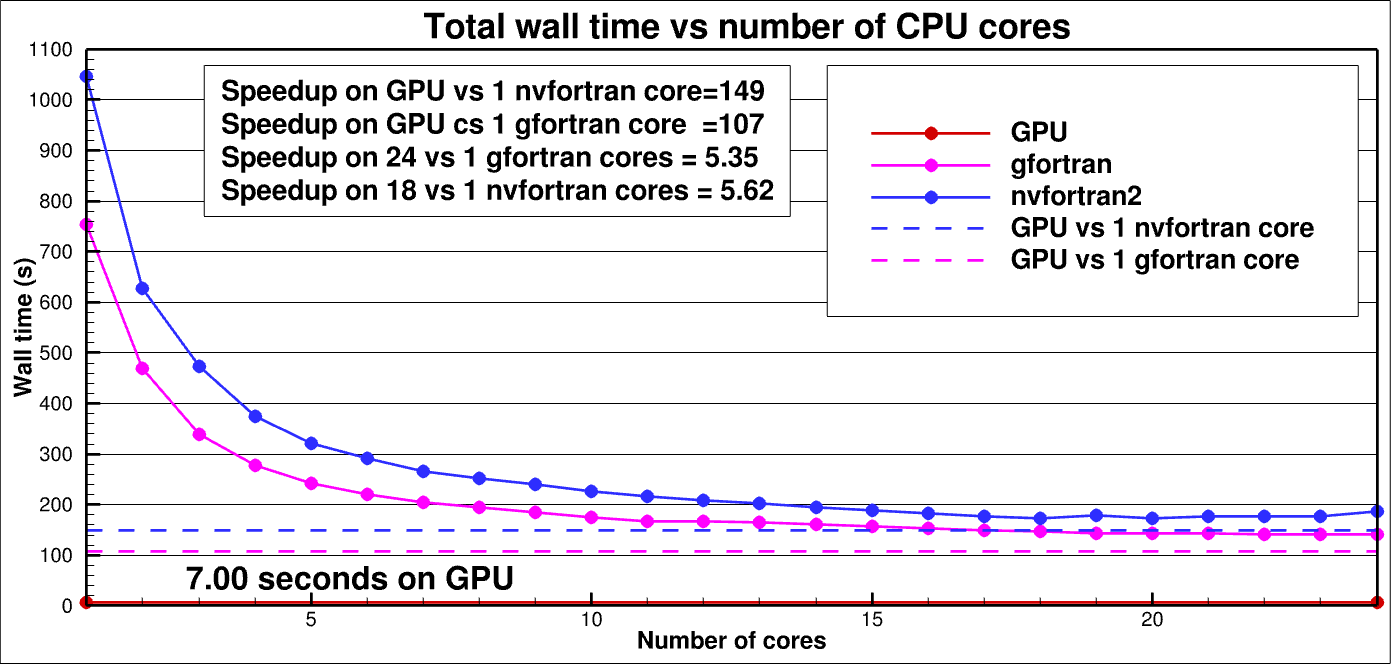
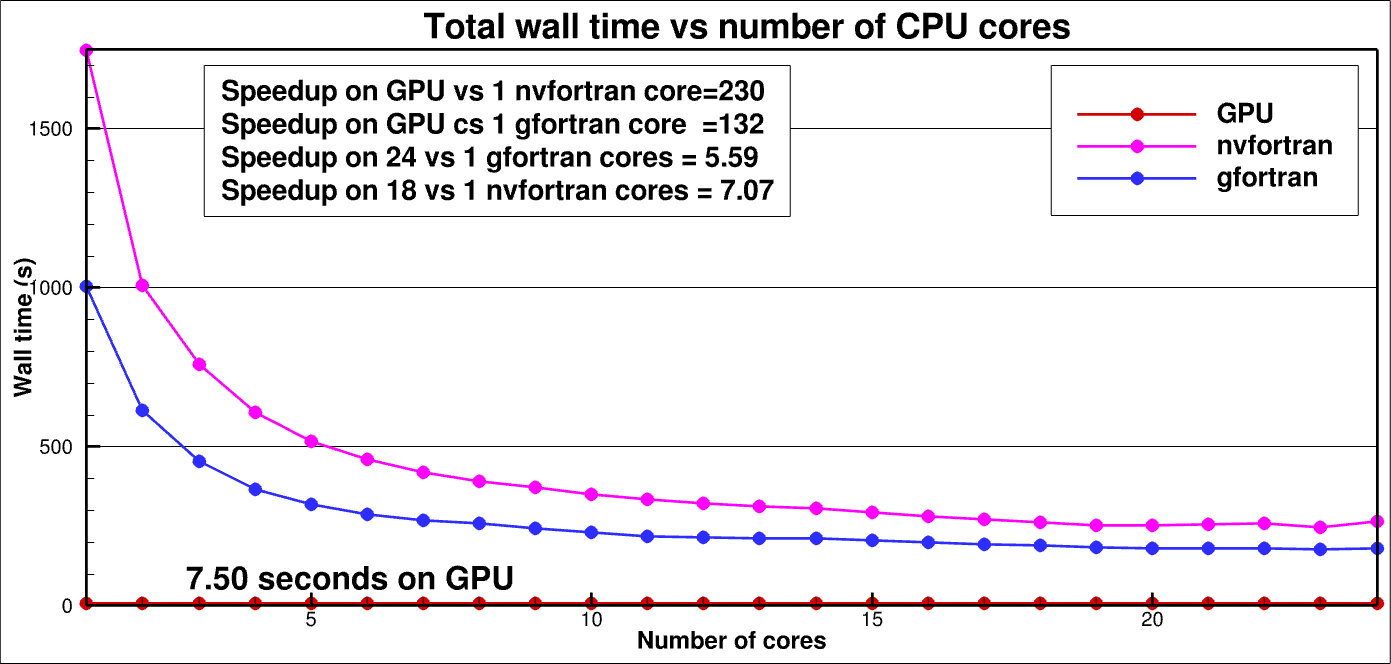
updated README

diff --git a/README.md b/README.md
@@ -2,16 +2,15 @@
 This repository contains a 3D implementation of a Lattice-Boltzmann model on a D3Q19 or D3Q27 lattice for high Reynolds number flow.
 
 ## Relese notes:
-**The latest pushes have been major upgrades. Speedup is now around 92 on GPU relative a single CPU core.**
+**The latest pushes have been major upgrades. Speedup is now around 100 on GPU relative a single CPU core.**
   - The code uses pointers to switch beteen f1 and f2 every second timestep. This allows for a significant simplification
     for the implementation of boundary conditions and reduces the load on the GPU for the postcoll routine.
   - postcoll now replaces fequil2, regularization, vreman and collisions, which are all done in one common kernel.
   - The actuatorline model was a mess, and I have now cleaned it up and tested it again.
-  - I have changed the format of the infile.in somewhat. Also, if there is no infile.in present, Boltzmann will generate one for you.
-  - I have developed a relatively robust test environment. If you activate ltesting in infile.in the code will dump the whole f in a file at the end of the
-    simulation e.g., testing000200.uf if you run 200 time-steps. All subsequent 200 time-steps runs will then compute the difference between the latest
-    simulations and the reference testing000200.uf file. Please use this approach while modifying code to reduce the risk of introducing bugs.  A tolerance of
-    (RMSE=1.0E-07 and MAXERR=1.0E-06) are acceptable.
+  - I have changed the format of the infile.in. Also, if there is no infile.in present, Boltzmann will generate one for you.
+  - I have developed a relatively robust test environment. If you activate ltesting in infile.in the code will dump the whole distribution function 
+    f in a file at the end of the simulation e.g., testing000200.uf if you run 200 time-steps. All subsequent 200 time-steps runs will then compute the
+    difference between the latest simulations and the reference testing000200.uf file. A tolerance of (RMSE=0.1E-06 and MAXERR=0.1E-05) are acceptable.
 
 ## License
 
@@ -39,9 +38,10 @@ The code, NVIDIA's CUDA Fortran, runs on a single core, an OPEN-MP multicore, or
 
 The code runs in single precision as default but a flag copiles a double precision version.
 
-The collision operator is a single relaxation time third-order expansion with regularization similar to [Jacob et al (2018)](https://hal.science/hal-02114308) and
-[Feng et al, (2018)](https://doi.org/10.1029/2020MS002107), but excluding the hybrid regularization, which I have not yet needed. It is also possible to use it for
-viscous flow without regularization and turbulence closure, and using a second-order BGK expansion.
+The collision operator is a single relaxation time with relaxation to a third-order Hermite expansion of the Equilibrium distribution
+similar to the approach taken by [Jacob et al (2018)](https://hal.science/hal-02114308) and
+[Feng et al, (2018)](https://doi.org/10.1029/2020MS002107), but excluding the hybrid regularization using finite differences that I did not yet need.
+It is also possible to use the code for viscous flow without regularization and turbulence closure, and using a second-order BGK expansion.
 
 The turbulence closure scheme is the one described by [Vreman (2004)](https://doi.org/10.1063/1.1785131).
 
@@ -56,14 +56,16 @@ turbines at any location of the model domain.
 Inflow turbulence is mimicked or introduced at a section inside the inflow boundary at i=1 (typically at the slice i=10) by applying a smooth in space
 and time, pseudo-random force on the fluid.
 
-The forcing function for the inflow turbulence and the turbines is that of Kupershtokh (2009). For the turbine forcing, it is also possible to run with the forcing
-formulations of Guo et al (2002). However, when using regularization, we project the non-equilibrium distribution onto the third-order Hermite polynomials. The
-significant difference between the Guo scheme's equilibrium distribution computed on the forcing-updated velocities leads to a poor representation using Hermite
-polynomials, and we partly lose the effect of the forcing. Thus, in the Guo scheme with regularization, it is necessary to compute the regularization first on
-R(fneq)=R(f-feq(u)) and then recover f=feq(u)+R(fneq) before computing the updated forcing velocities u+du and the forcing distribution df. Next we compute
-feq(u+du) and fneq(u+du)= f-feq(u+du), which goes into the collision and vreman calls. Thus, the cost of Guo is therefore much higher as it requires two calls to
-fequil and an extra computation of f=feq +R(fneq) and extra computation of fneq= f-feq(u+du). It is possible to reduce the computational cost by updating only at
-the turbine locations, but for now, it is not worth the effort.
+The forcing function for the inflow turbulence and the turbines is that of Kupershtokh (2009).
+
+Previously, for the turbine forcing, it was also possible to run with the forcing formulations of Guo et al (2002). However, when using regularization, we
+project the non-equilibrium distribution onto the third-order Hermite polynomials. The significant difference between the Guo scheme's equilibrium
+distribution computed on the forcing-updated velocities leads to a poor representation using Hermite polynomials, and we partly lose the effect of the
+forcing.  Thus, in the Guo scheme with regularization, it is necessary to compute the regularization first on R(fneq)=R(f-feq(u)) and then recover
+f=feq(u)+R(fneq) before computing the updated forcing velocities u+du and the forcing distribution df. Next we must compute feq(u+du) and fneq(u+du)=
+f-feq(u+du), which goes into the collision and vreman calls. Thus, the cost of Guo is therefore much higher as it requires two calls to fequil and an extra
+computation of f=feq +R(fneq) and extra computation of fneq= f-feq(u+du). It is possible to reduce the computational cost by updating only at the turbine
+locations, but for now, it is not worth the effort.
 
 
 
@@ -94,10 +96,10 @@ git clone git@github.com:geirev/LBM.git
 
 ### 1b. Advanced installation
 
-Make a personal github account unless you already have one.
-Fork the LBM repository.
-Next clone the forked repositories and set upstream to the original repositories where
-you need to replace <userid> with your github userid
+   - Make a personal github account unless you already have one.
+   - Fork the LBM repository.
+   - Next clone the forked repositories where you need to replace <userid> with your github userid.
+   - Set upstream to the original repositories.
 
 ```bash
 git clone git@github.com:<userid>/LBM.git
@@ -105,7 +107,7 @@ pushd LBM
 git remote add upstream git://github.com:geirev/LBM
 popd
 ```
-or, if you have not set up git-ssh
+or, if you have not set up git-ssh (or see instructions below)
 ```bash
 git clone git@github.com:<userid>/LBM.git
 pushd LBM
@@ -120,9 +122,11 @@ If you are new to Git, read the section <a href="#git-instructions">Git instruct
 
 ```bash
 sudo apt-get -y update
-sudo apt-get -y install libfftw3-dev               # fft library used when sampling pseudo-random fields
+sudo apt-get -y install libfftw3-dev  # fft library used when sampling pseudo-random fields
+```
 
-# nvidia Cuda fortran compiler and utilities installation (get the latest version, nvhpc-25-7 is just for illustration).
+nvidia Cuda fortran compiler and utilities installation (get the latest version, nvhpc-25-7 is just for illustration).
+```bash
 curl https://developer.download.nvidia.com/hpc-sdk/ubuntu/DEB-GPG-KEY-NVIDIA-HPC-SDK | sudo gpg --dearmor -o /usr/share/keyrings/nvidia-hpcsdk-archive-keyring.gpg
 echo 'deb [signed-by=/usr/share/keyrings/nvidia-hpcsdk-archive-keyring.gpg] https://developer.download.nvidia.com/hpc-sdk/ubuntu/amd64 /' | sudo tee /etc/apt/sources.list.d/nvhpc.list
 sudo apt-get update -y
@@ -130,11 +134,11 @@ sudo apt-get install -y nvhpc-25-7
 sudo apt install nvidia-cuda-toolkit
 ```
 
-In addition you can use netcdf for output and you must then install netcdf on your system.
+In addition you can use netcdf for output and if you wish using netcdf you must then install it on your system.
 ```bash
 sudo apt install netcdf-bin libnetcdf-dev libnetcdff-dev
 ```
-or you can use the included installation script:
+In case of problems you can use the included installation script with manual compilation:
 ```bash
 ./bin/install_netcdf.sh
 ```
@@ -142,43 +146,51 @@ or you can use the included installation script:
 ## 3. Compile the `LBM` code
 
 For gpu compilation run 'nvidia-smi' or 'lshw -C display' to find you gpu-card.
-The check the compute capability of your gpu in the table https://developer.nvidia.com/cuda-gpus.
+Then check the compute capability of your gpu in the table
+[https://developer.nvidia.com/cuda-gpus](https://developer.nvidia.com/cuda-gpus).
+Note also the link to the old/legacy GPU cards in the link 
+[https://developer.nvidia.com/cuda-legacy-gpus] (https://developer.nvidia.com/cuda-legacy-gpus), and also be aware that some old GPU cards
+may require you to install older versions than nvhpc-25-7.
+
 Navigate to the `src` folder and open the makefile and specify the correct -gpu=ccXX flag.
-
-
 ```bash
 cd LBM/src
+vi makefile
 ```
 
-then compile and install the executable in the target directory, defaulting to
-`$HOME/bin`:
+Typically you will only need to edit the file `mod_dimensions.F90` to set the grid dimensions before compilations.
 
-Default is compilation for single core in single precision on D3Q27 lattice.
+Then compile and install the executable in the target directory, defaulting to
+`$HOME/bin` so make sure `$HOME/bin` exists and is included in your path:
+
+Default is compilation for single core in single precision on D3Q27 lattice using nvfortran/pgf90.
 ```bash
 make -B
 ```
+where the `-B` option force compilation from scratch.
 
-Default is compilation for single core in single precision on D3Q27 lattice using gfortran.
+When running on a single core or using OPEN-MP, gfortran generates a faster executable than nvfortran, so use
 ```bash
 make -B GFORTRAN=1
 ```
+to generate an executable for a single core in single precision on D3Q27 lattice using gfortran.
 
-Default is compilation for OPEN-MP in single precision on D3Q27 lattice using gfortran.
+Similarly to compile for OPEN-MP in single precision on D3Q27 lattice using gfortran
 ```bash
 make -B GFORTRAN=1 MP=1
 ```
 
-Compilation for single core in single precision on D3Q19 lattice
+nvfortran compilation for single core in single precision on D3Q19 lattice
 ```bash
 make -B D3Q19=1
 ```
 
-Compilation for OPEN-MP in single precision on D3Q27 lattice
+nvfortran compilation for OPEN-MP in single precision on D3Q27 lattice
 ```bash
 make -B MP=1
 ```
 
-Compilation for CUDA GPU in single precision and D3Q27 lattice
+nvfortran compilation for CUDA GPU in single precision and D3Q27 lattice
 ```bash
 make -B CUDA=1
 ```
@@ -201,9 +213,9 @@ make -B CUDA=1 NETCDF=1
 ```
 Some editing of paths to NETCDF libraries etc in the makefile might be necessary.
 
-Running in single precision is about 2-3 faster  than using double precision.
+Running in single precision is about 3 faster than using double precision.
 
-Running on the D3Q19 lattice reduces the CPU time with around 40 % but seems to introduce more noise.
+Running on the D3Q19 lattice reduces the CPU time with around 40 % but seems to introduce some noise for high Reynolds number flow.
 
 A test running 200 time steps on single CPU, with OPEN-MP, and GPU for a domain of 121x121x928 gave the following wall times:
 
@@ -222,29 +234,49 @@ and the gpu card is "Nvidia RTX 5090."
 <img src="doc/gpu.png" width="500">
 </p>
 
-These plots clearly show that GPU is the optimal choice for heavy simulations, while CPU scaling beyond 10-16 cores is inefficient.
-
+This plot clearly shows that GPU is the optimal choice for heavy simulations, while CPU scaling beyond 10-16 cores is inefficient.
 Also, for single core and OPEN-MP gfortran is faster than nvfortran with the compiler flags currently used.
-
-DP-GPU is almost four times slower than SP-GPU.
 
 ## 4. Run the code
 
 Start by defining the required grid dimensions in the src/mod_dimensions.F90 file, and compile.
 
-Create a separate catalog preferably on a large scratch disk or work area, and copy the example/infile.in to this catalog.
+Create a separate catalog preferably on a large scratch disk or work area, e.g.,
+```bash
+mkdir rundir
+cd cd rundir
+ulimit -s unlimited
+boltzmann
+```
+The model will then generate a template `infile.in` file.
+Spend some time understanding the inputs you can provide through the infile.in.
+
+If you want to run with wind turbines, link or copy the `Airfoils` directory to the rundir and
+define a number of turbines larger than 0 with their grid locations at the bottom of the `infile.in`.
+
 The example infile.in corresponds to a  2D city case with flow through the city, and the program should run without any other input files. Just choose
-the city2 case in mod_dimensions.F90. You can also use this grid for the cylinder case by editing the infile.in. For more realistic 3D runs increase the
-vertical resolution.
+the city2 case in mod_dimensions.F90. You can also use this grid for the cylinder case by changing `city2` to `cyliner` in the infile.in.
+For more realistic 3D runs increase the number of vertical grid points.
 
 The example/run.sh script may be required for large grids, as it sets ulimit -s unlimited and it also defines the number of cores used in OPEN-MP simuilations.
 
 The example/uvel.orig file defines an atmospheric boundary layer if it is found in the run direcotry.
 
-To execute the code run:
-
+In summary to execute the code on a single core:
 ```bash
 ulimit -s unlimited
+boltzmann
+```
+
+To run the code on 18 cores using OPEN-MP:
+```bash
+export OMP_NUM_THREADS=18
+ulimit -s unlimited
+boltzmann
+```
+
+To run on the GPU it's just:
+```bash
 boltzmann
 ```
 
@@ -260,7 +292,8 @@ nvprof boltzmann
 which gives a detailed listing of the CPU time used by each kernel.
 
 To obtain more realistic profiling, removing the device to host copying which starts dominating for short GPU runs, set
-runexp to false in infile.in. This option also eliminates all the syncs before and after kernal lauches which the profiling
+`lnodump` to `true` and  `ltiming` to `false` in `infile.in`. This avoids writing dianostic and restart files and 
+eliminates all the syncs before and after kernal lauches which the profiling
 reacts on but which has little impact on the total simulation time.
 
 
@@ -277,7 +310,11 @@ fields.
 Additionally, it is possible to compute the averages over any number of time-steps and these are then saved to tecAVERAGE.plt. This file also contains the
 turbulent kinetic energy.
 
-If you are not using Tecplot you can chose another output format by replacing the call to the tecout routine in m_diag.F90 to your choice.
+An alternative to Tecplot is the open-source program Paraview which also reads Tecplot files. However ensure that the option `tecout` is set to `0` to dump
+full Tecplot files.
+
+Note also the option to output netcdf files by setting `tecout` to `3` in `infile.in` and compiling with NEDCDF=1.
+
 
 ---
 
